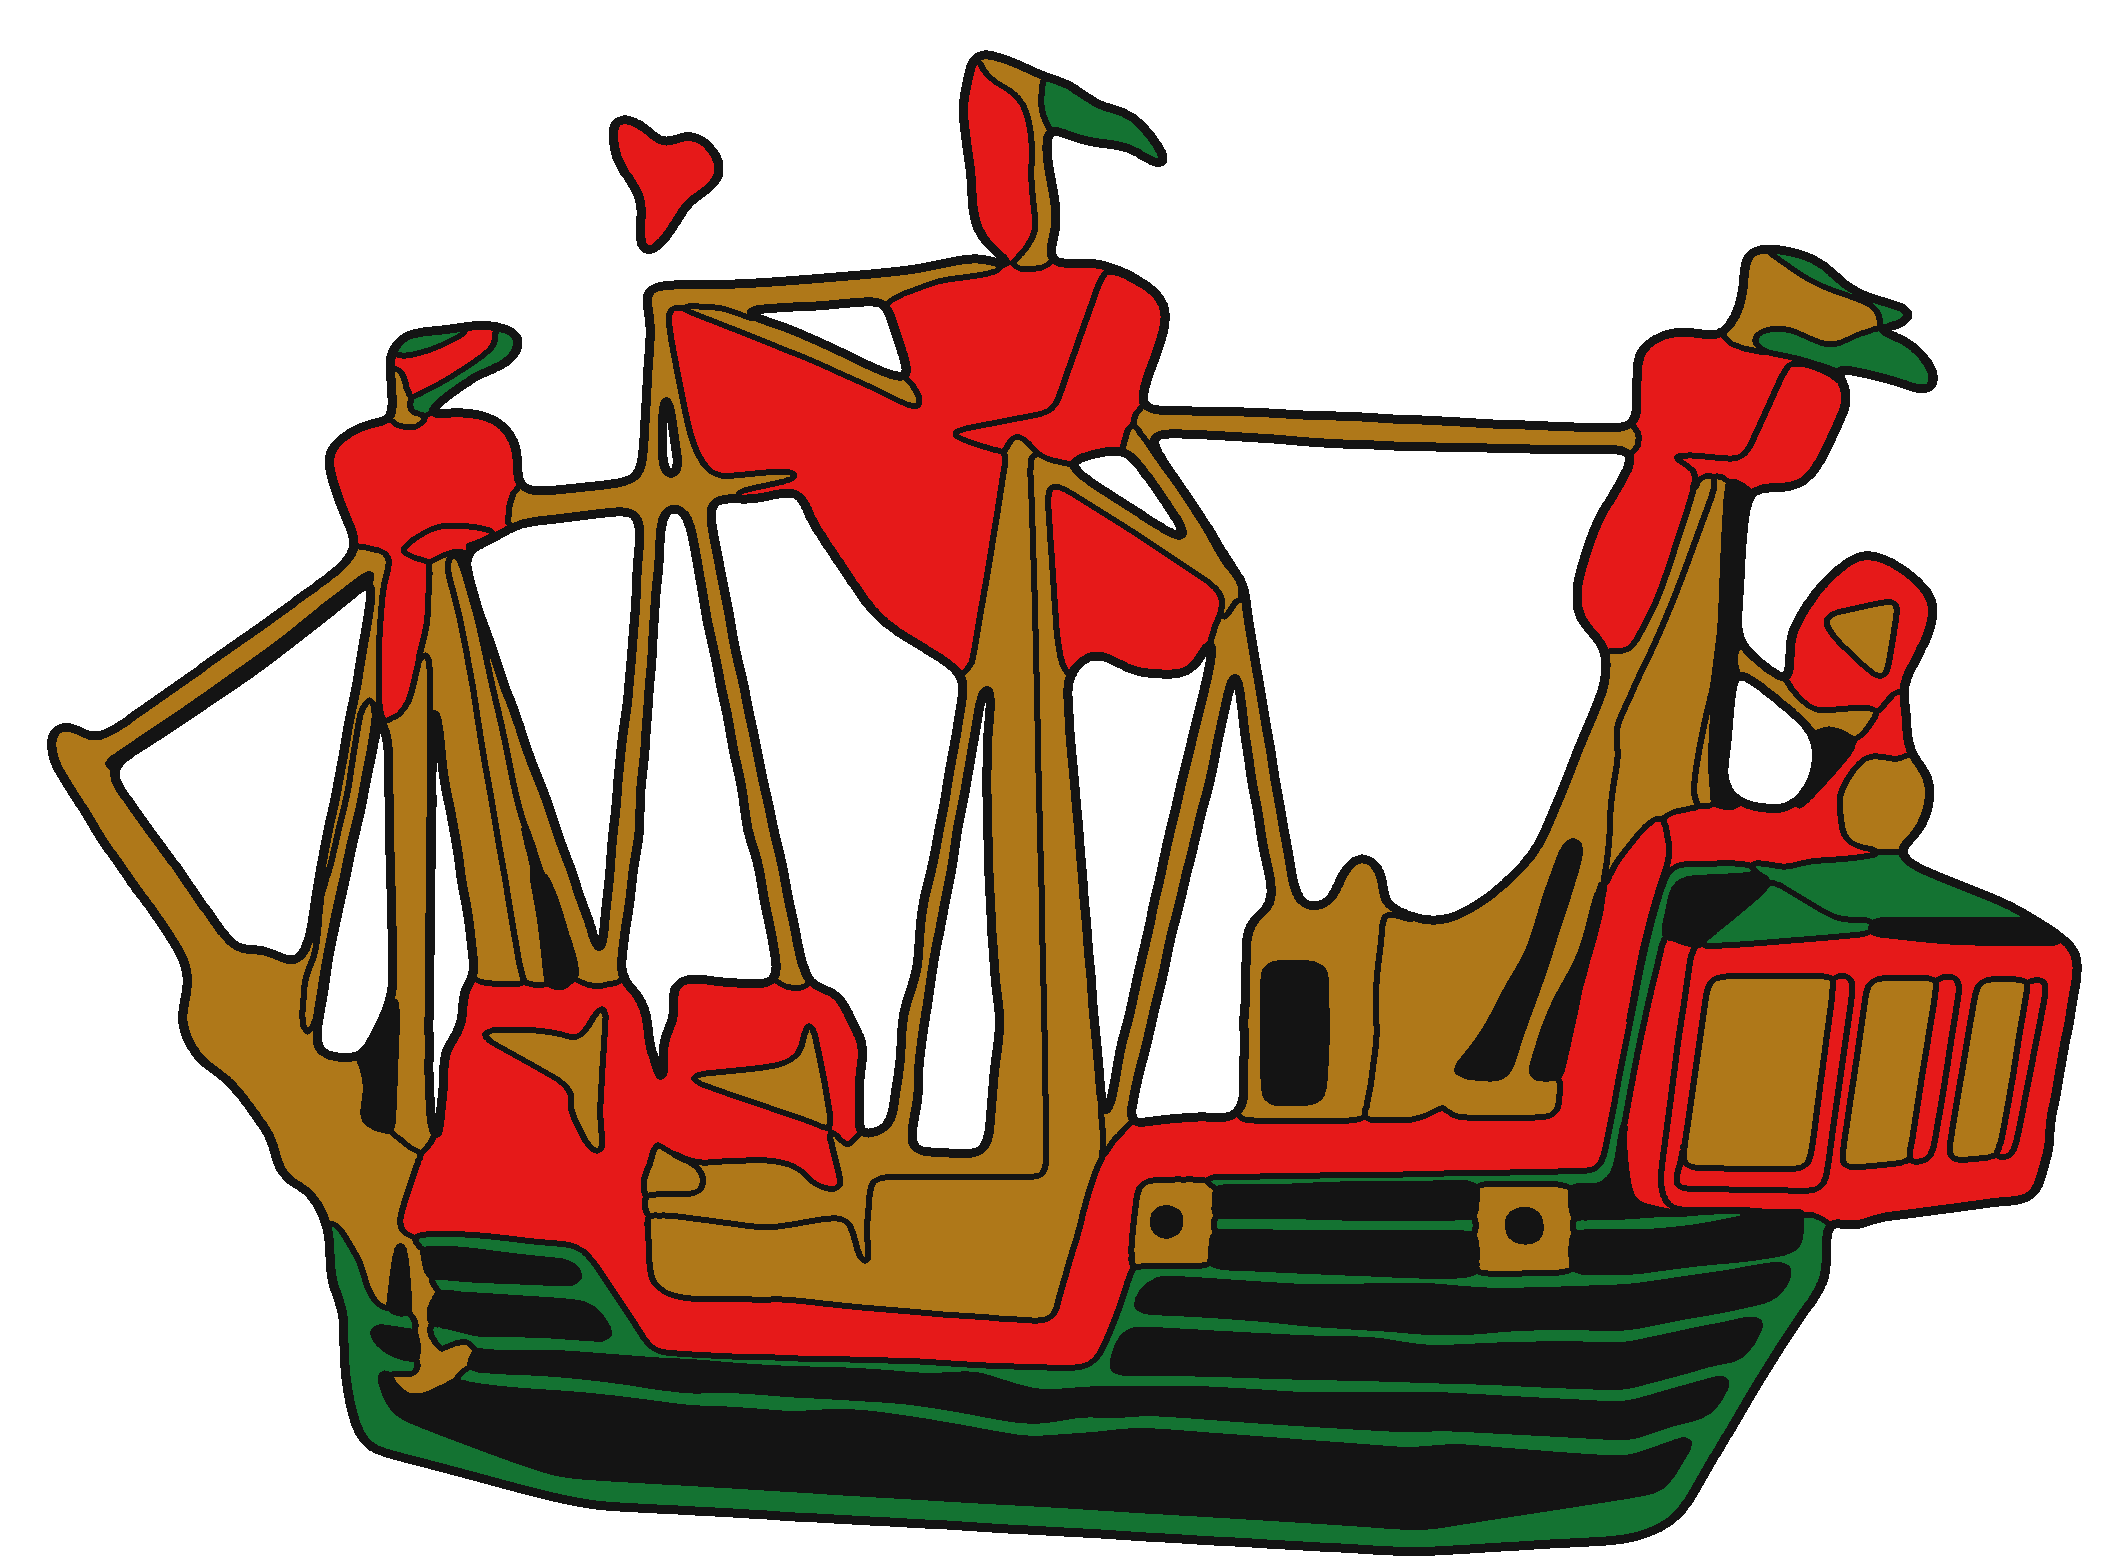
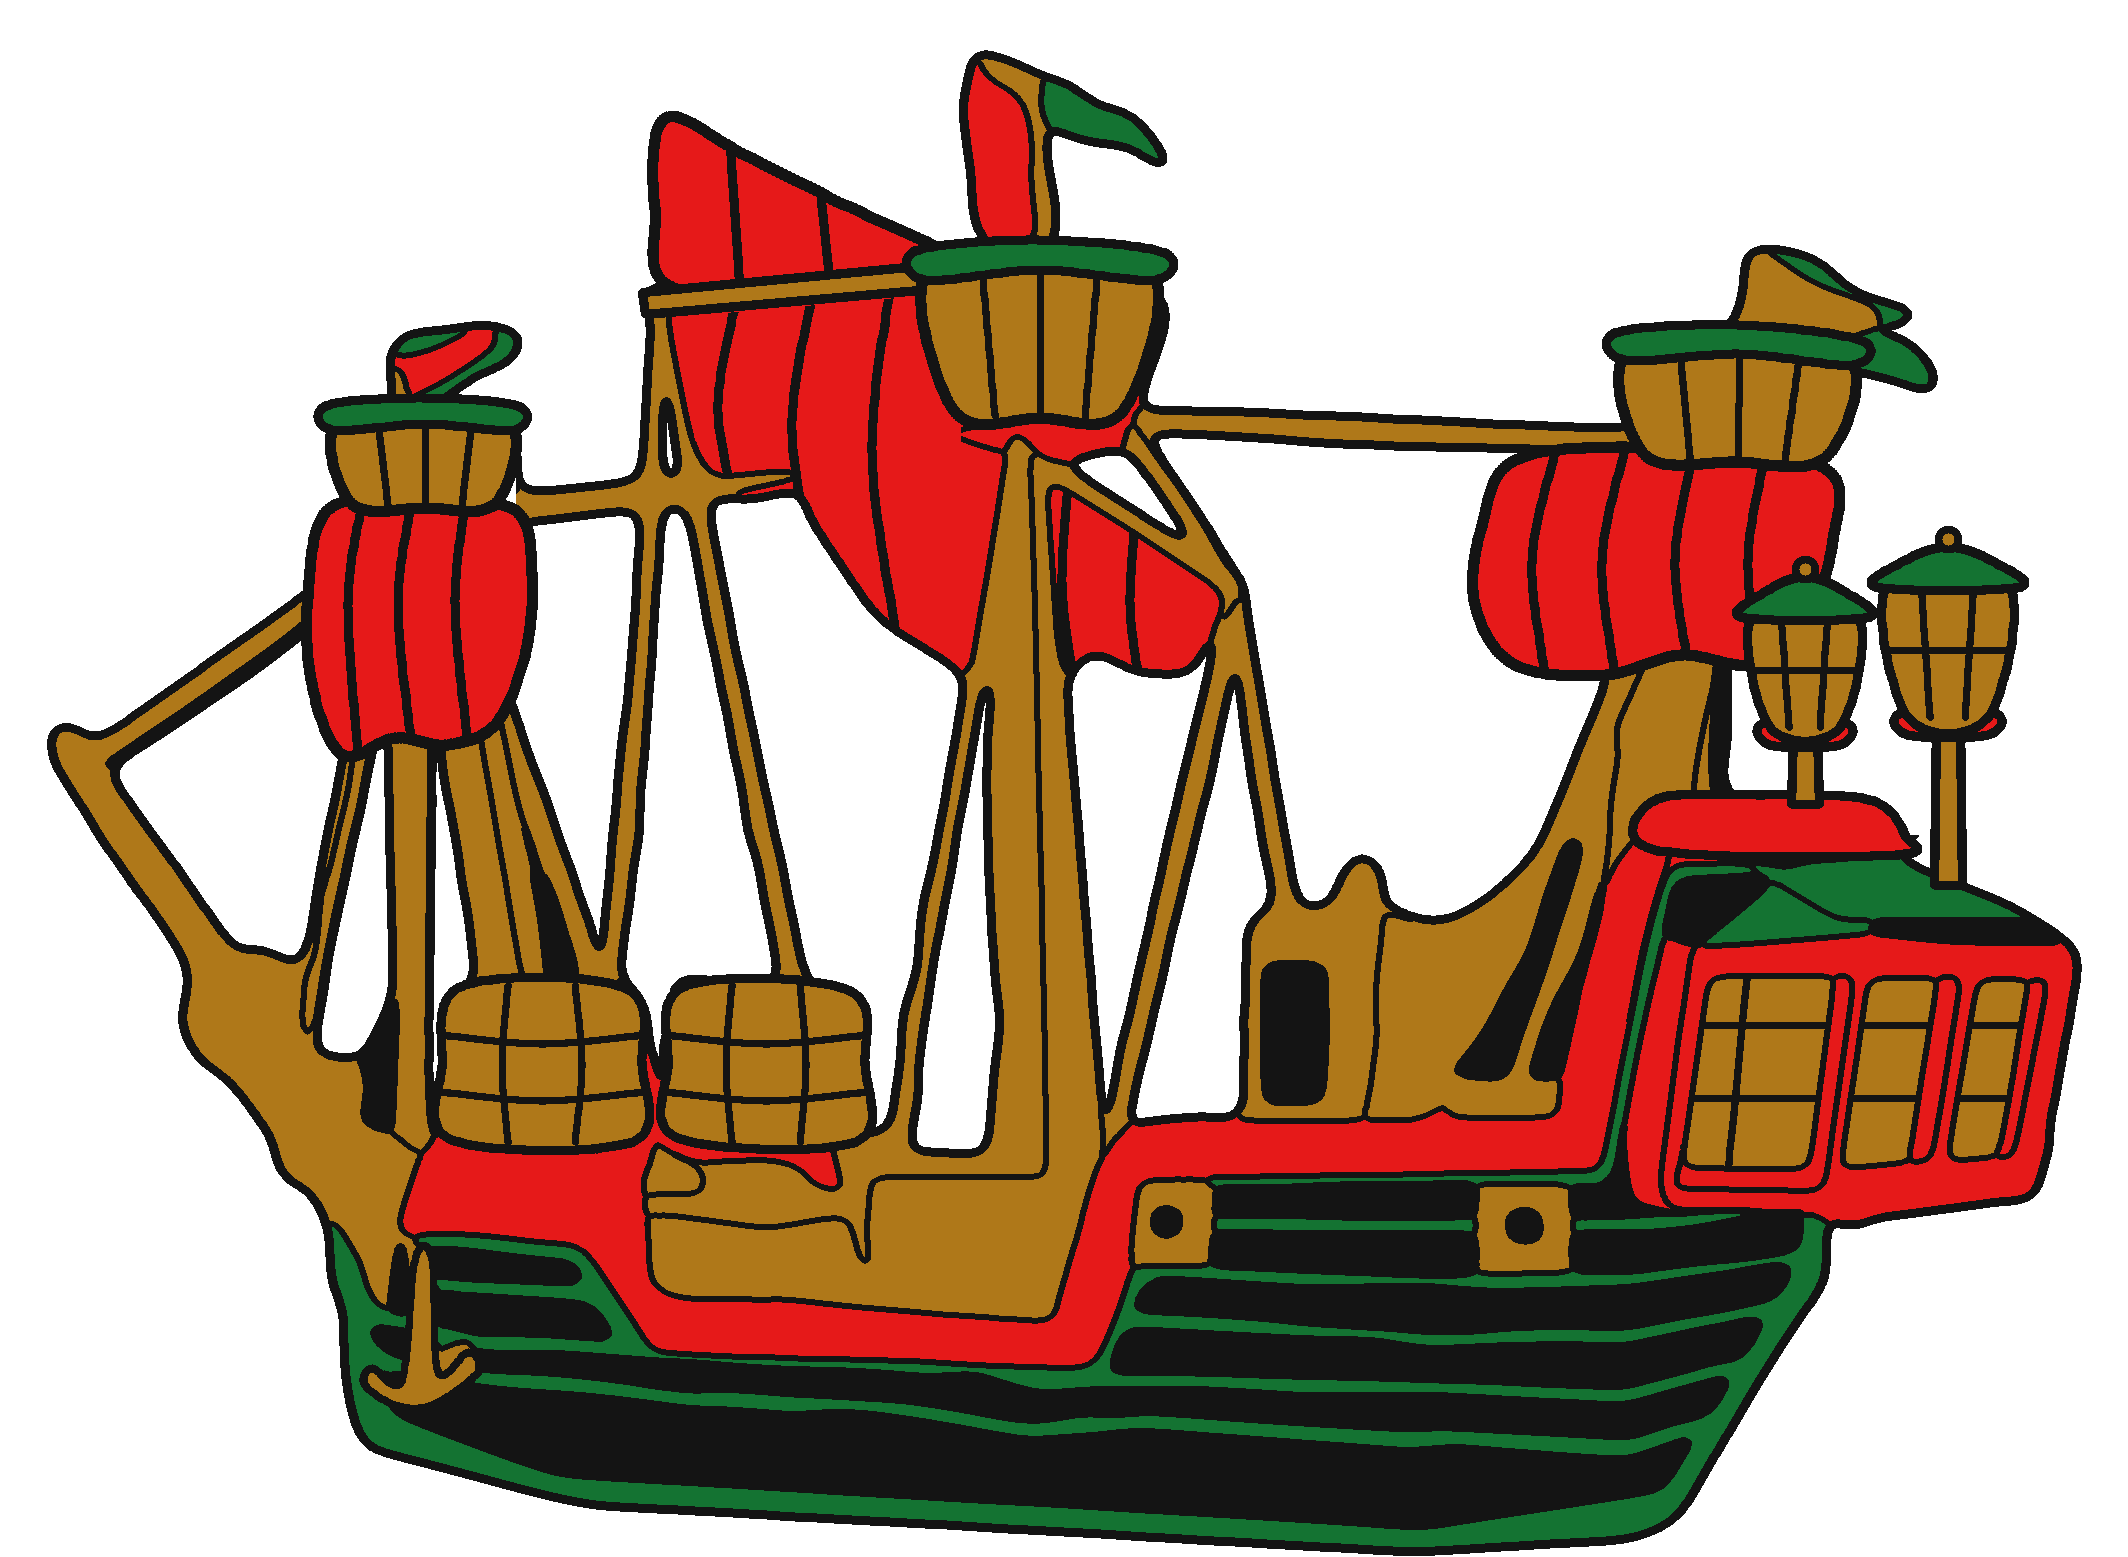
feat: add stern lanterns, golden crow's nests, larger sails with vertical seams, and deck barrels to Pirate Ship

diff --git a/simulator/app.js b/simulator/app.js
@@ -164,7 +164,7 @@ pirateShipImg.onload = () => {
     pirateShipLoaded = true;
     notifyFloatImgLoaded();
 };
-pirateShipImg.src = 'assets/Pirateshipsimple.png?v=20261103_pirate_4color';
+pirateShipImg.src = 'assets/Pirateshipsimple.png?v=20261103_pirate_v8';
 
 // Cinderella's Coach Artwork (Legacy)
 const cinderellasCoachImg = new Image();
@@ -268,10 +268,10 @@ floatArtworkImgs['spinning_turtle'].src = 'assets/Turtle_clean.png?v=20261103_tu
 floatArtworkImgs['spinning_snail'].src = 'assets/SimpleSnail.png';
 floatArtworkImgs['spinning_snail_original'].src = 'assets/SimpleSnail.png';
 floatArtworkImgs['spinning_snail_simplified'].src = 'assets/spinning_snail_simplified.png';
-floatArtworkImgs['pirate_ship'].src = 'assets/Pirateshipsimple.png?v=20261103_pirate_4color';
-floatArtworkImgs['pirateshipsimple'].src = 'assets/Pirateshipsimple.png?v=20261103_pirate_4color';
-floatArtworkImgs['cinderella_coach'].src = 'assets/Pirateshipsimple.png?v=20261103_pirate_4color';
-floatArtworkImgs['cinderellas_coach'].src = 'assets/Pirateshipsimple.png?v=20261103_pirate_4color';
+floatArtworkImgs['pirate_ship'].src = 'assets/Pirateshipsimple.png?v=20261103_pirate_v8';
+floatArtworkImgs['pirateshipsimple'].src = 'assets/Pirateshipsimple.png?v=20261103_pirate_v8';
+floatArtworkImgs['cinderella_coach'].src = 'assets/Pirateshipsimple.png?v=20261103_pirate_v8';
+floatArtworkImgs['cinderellas_coach'].src = 'assets/Pirateshipsimple.png?v=20261103_pirate_v8';
 floatArtworkImgs['petes_dragon'].src = 'assets/petes_dragon_transparent.png';
 floatArtworkImgs['builtin_dragon'].src = 'assets/petes_dragon_transparent.png';
 floatArtworkImgs['petes_dragon_transparent'].src = 'assets/petes_dragon_transparent.png';

diff --git a/PROJECT_PROGRESS.md b/PROJECT_PROGRESS.md
@@ -93,6 +93,15 @@ This project coordinates synchronized, addressable LED lighting across **7 runne
 
 ## Progress Log
 
+### 2026-11-03: Float 5 (Pirate Ship) Stern Lanterns, Golden Crow's Nests, Larger Billowing Sails & Vertical Sail Seams
+- **Reference-Photo Nautical Enhancements (Strictly 4 Flat Colors):**
+  - **Stern Lanterns Above Captain's Quarters:** Replaced the abstract stern shape with two ornate **Golden Bronze (`#af7819`)** galleon stern lanterns mounted on posts above the Captain's Quarters—complete with **Black (`#141414`)** vertical and horizontal glass pane mullions, **Red (`#e61919`)** base collars, and **Emerald Green (`#147332`)** lantern caps with golden finials.
+  - **Golden Bronze Crow's Nests with Black Outlines:** Converted all three crow's nests (Foremast, Mainmast, and Mizzenmast) into flared **Golden Bronze** baskets with bold **Black** outer outlines, vertical stave lines, and **Emerald Green** top rims matching the archival *Main Street Electrical Parade* float.
+  - **Larger Front & Rear Sails + Vertical Sail Seam Lines:** Enlarged the **Front Sail (Foresail)** and **Rear Sail (Mizzen Sail)** to billow out below their crow's nests, connected the upper-left peak of the **Center Main Sail** cleanly across the upper yardarm, and added curved, mostly-vertical **Black** seam lines across all three **Red** sails.
+  - **Additional Galleon Details:** Added **Black** window-pane crossbars to the 3 **Golden Bronze** Captain's Quarters windows, converted the two foredeck boxes into **Golden Bronze** wooden deck barrels with curved horizontal hoops and vertical staves, and sharpened the **Golden Bronze** bow anchor.
+- **Strict 4-Color Verification & Simulator Sync:**
+  - Verified 100% discrete 4-color compliance across all `1,639,981` foreground pixels (`Black`: `647,950 px`, `Golden Bronze`: `495,320 px`, `Red`: `360,588 px`, `Green`: `136,163 px`) on a 100% transparent background (`alpha = 0`), updated all 4 asset paths, and bumped cache-buster in `simulator/app.js` to `?v=20261103_pirate_v8`.
+
 ### 2026-11-03: Float 5 (Pirate Ship) 4-Color Cartoon Cleanup & Bold Black Outline Separation
 - **Unified Golden Bronze Palette & Black Outline Separation:**
   - Consolidated the Pirate Ship float graphic (`2128 × 1557` RGBA) from 5 foreground colors down to a strict **4-color cartoon style** (**Black**, **Red**, **Golden Bronze**, and **Green**), unifying all lighter yellow regions (`#ebb941`) with the antique bronze regions into a single warm **Golden Bronze (`#af7819`)** while drawing bold `7px` **Black (`#141414`)** outlines along every former yellow-to-bronze boundary (masts, rigging stays, bowsprit figurehead, lower sail pennants, and quarterdeck doorway/bulkhead) to keep every structural element cleanly separated.
